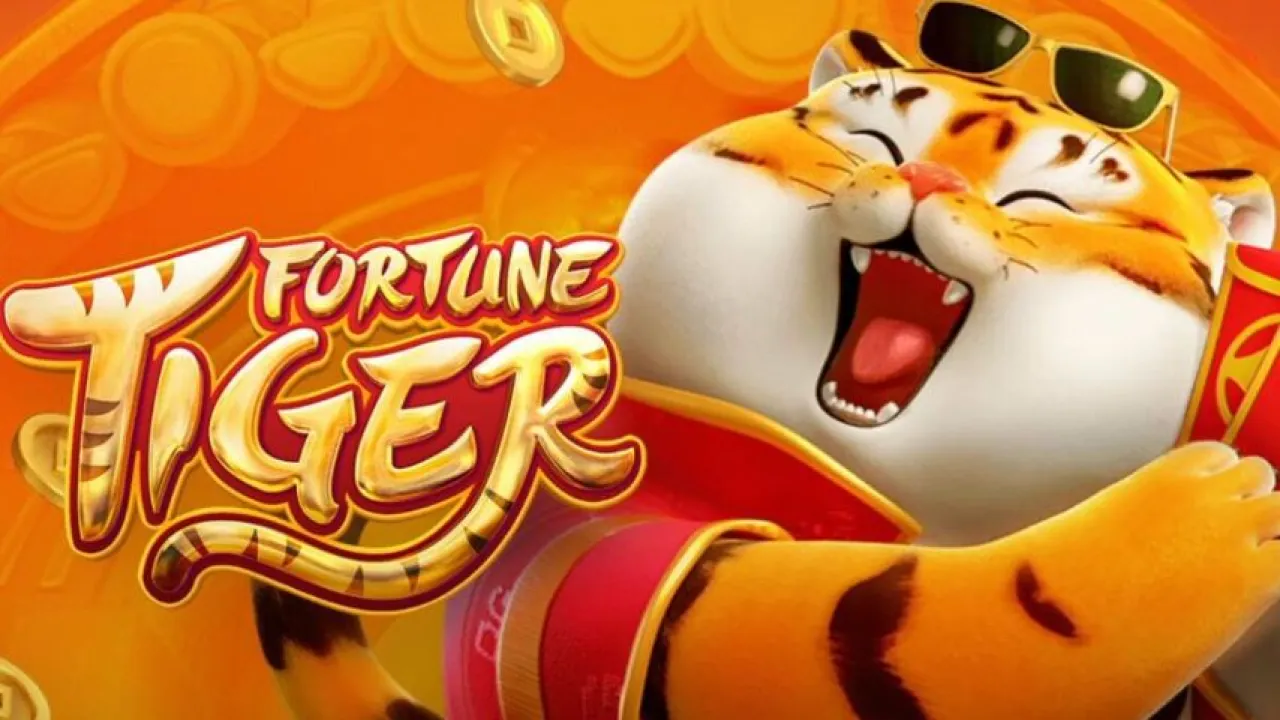
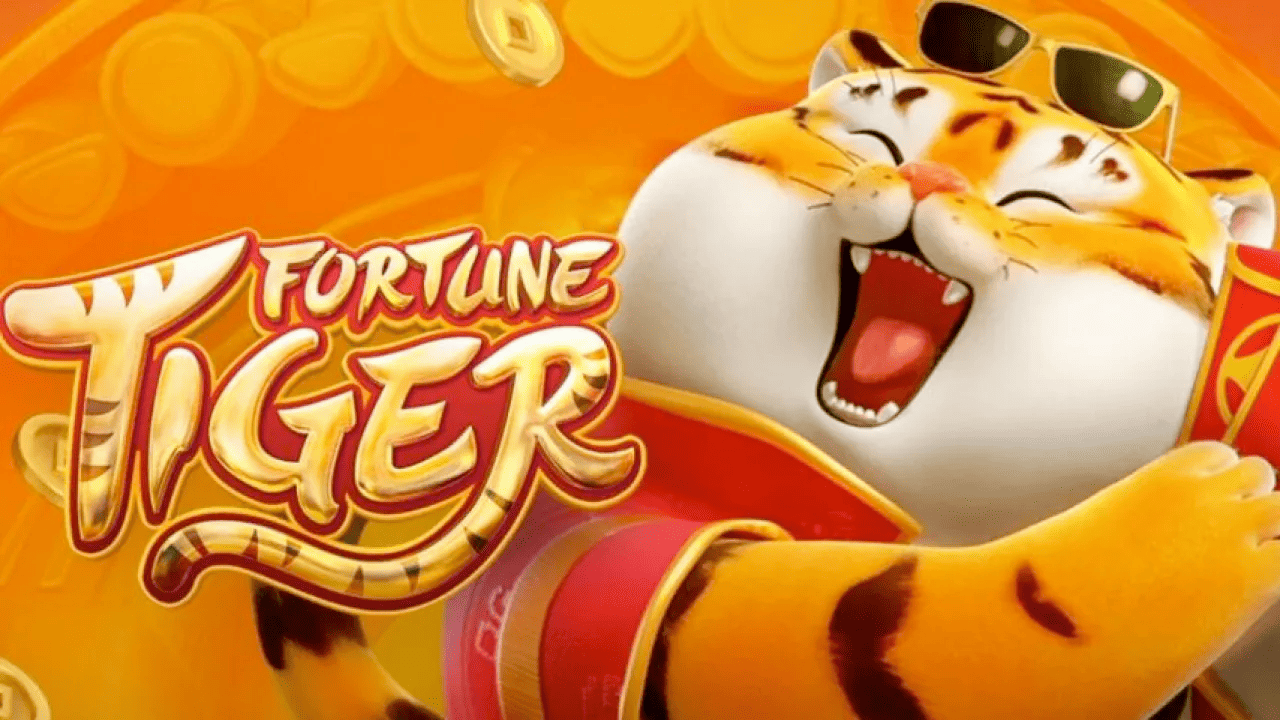
fix: improves images

diff --git a/app/data/talks/2026-atlseccon/SlidesData.ts b/app/data/talks/2026-atlseccon/SlidesData.ts
@@ -202,7 +202,7 @@ const slides: Slide[] = [
   {
     id: 1,
     type: 'cover',
-    bgImage: '/talks/atlseccon2026/slides/slide1-fortune-tiger.webp',
+    bgImage: '/talks/atlseccon2026/slides/slide1-fortune-tiger.png',
     title: 'A Tale of Subdomain Takeover',
     titleStyle: {
       left: 97, top: 624, width: 824,
@@ -249,7 +249,7 @@ const slides: Slide[] = [
     id: 5,
     type: 'content-image-top',
     title: 'The Legacy Site',
-    image: '/talks/atlseccon2026/slides/slide5-legacy-site.webp',
+    image: '/talks/atlseccon2026/slides/slide5-legacy-site.png',
     imageAlt: 'Legacy Product Passport website screenshot',
     imageStyle: { top: 105, left: 240, width: 800, height: 530 },
   },
@@ -292,7 +292,7 @@ const slides: Slide[] = [
     id: 8,
     type: 'content-image-mid',
     title: 'The Bucket Limit Problem',
-    image: '/talks/atlseccon2026/slides/slide8-aws-quotas.webp',
+    image: '/talks/atlseccon2026/slides/slide8-aws-quotas.png',
     imageAlt: 'AWS S3 Service quotas screenshot',
     imageCaption: 'AWS S3 Service quotas: limited number of S3 buckets',
     imageStyle: { top: 105, left: 280, width: 720, height: 310 },
@@ -310,7 +310,7 @@ const slides: Slide[] = [
     type: 'content-two-col',
     title: 'The Script We Needed',
     leftContent: {
-      image: '/talks/atlseccon2026/slides/slide9-code.webp',
+      image: '/talks/atlseccon2026/slides/slide9-code.png',
       imageAlt: 'Sample bucket cleanup script code',
       imageStyle: { top: 210, left: 50, width: 590, height: 330 },
       caption: 'Sample automated bucket cleanup script',
@@ -431,7 +431,7 @@ const slides: Slide[] = [
     id: 16,
     type: 'content-image-mid',
     title: 'Deleted bucket',
-    image: '/talks/atlseccon2026/slides/slide16-404.webp',
+    image: '/talks/atlseccon2026/slides/slide16-404.png',
     imageAlt: '404 Not Found — NoSuchBucket error page',
     imageStyle: { top: 105, left: 160, width: 960, height: 530 },
   },
@@ -494,7 +494,7 @@ const slides: Slide[] = [
     id: 20,
     type: 'content-image-mid',
     title: 'Subdomain Takeover',
-    image: '/talks/atlseccon2026/slides/slide20-diagram.webp',
+    image: '/talks/atlseccon2026/slides/slide20-diagram.png',
     imageAlt: 'Sequence diagram showing DNS, CloudFront, and AWS S3 request flow for subdomain takeover',
     imageStyle: { top: 105, left: 120, width: 1040, height: 545 },
   },

diff --git a/app/components/CustomImage.tsx b/app/components/CustomImage.tsx
@@ -11,7 +11,7 @@ export default function CustomImage({ src, alt, ...props }: ImageProps) {
       alt={alt}
       unoptimized={isSvg}
       sizes={props.sizes || "(max-width: 768px) 100vw, 1280px"}
-      decoding="async"
+      decoding="sync"
       {...props}
     />
   )
